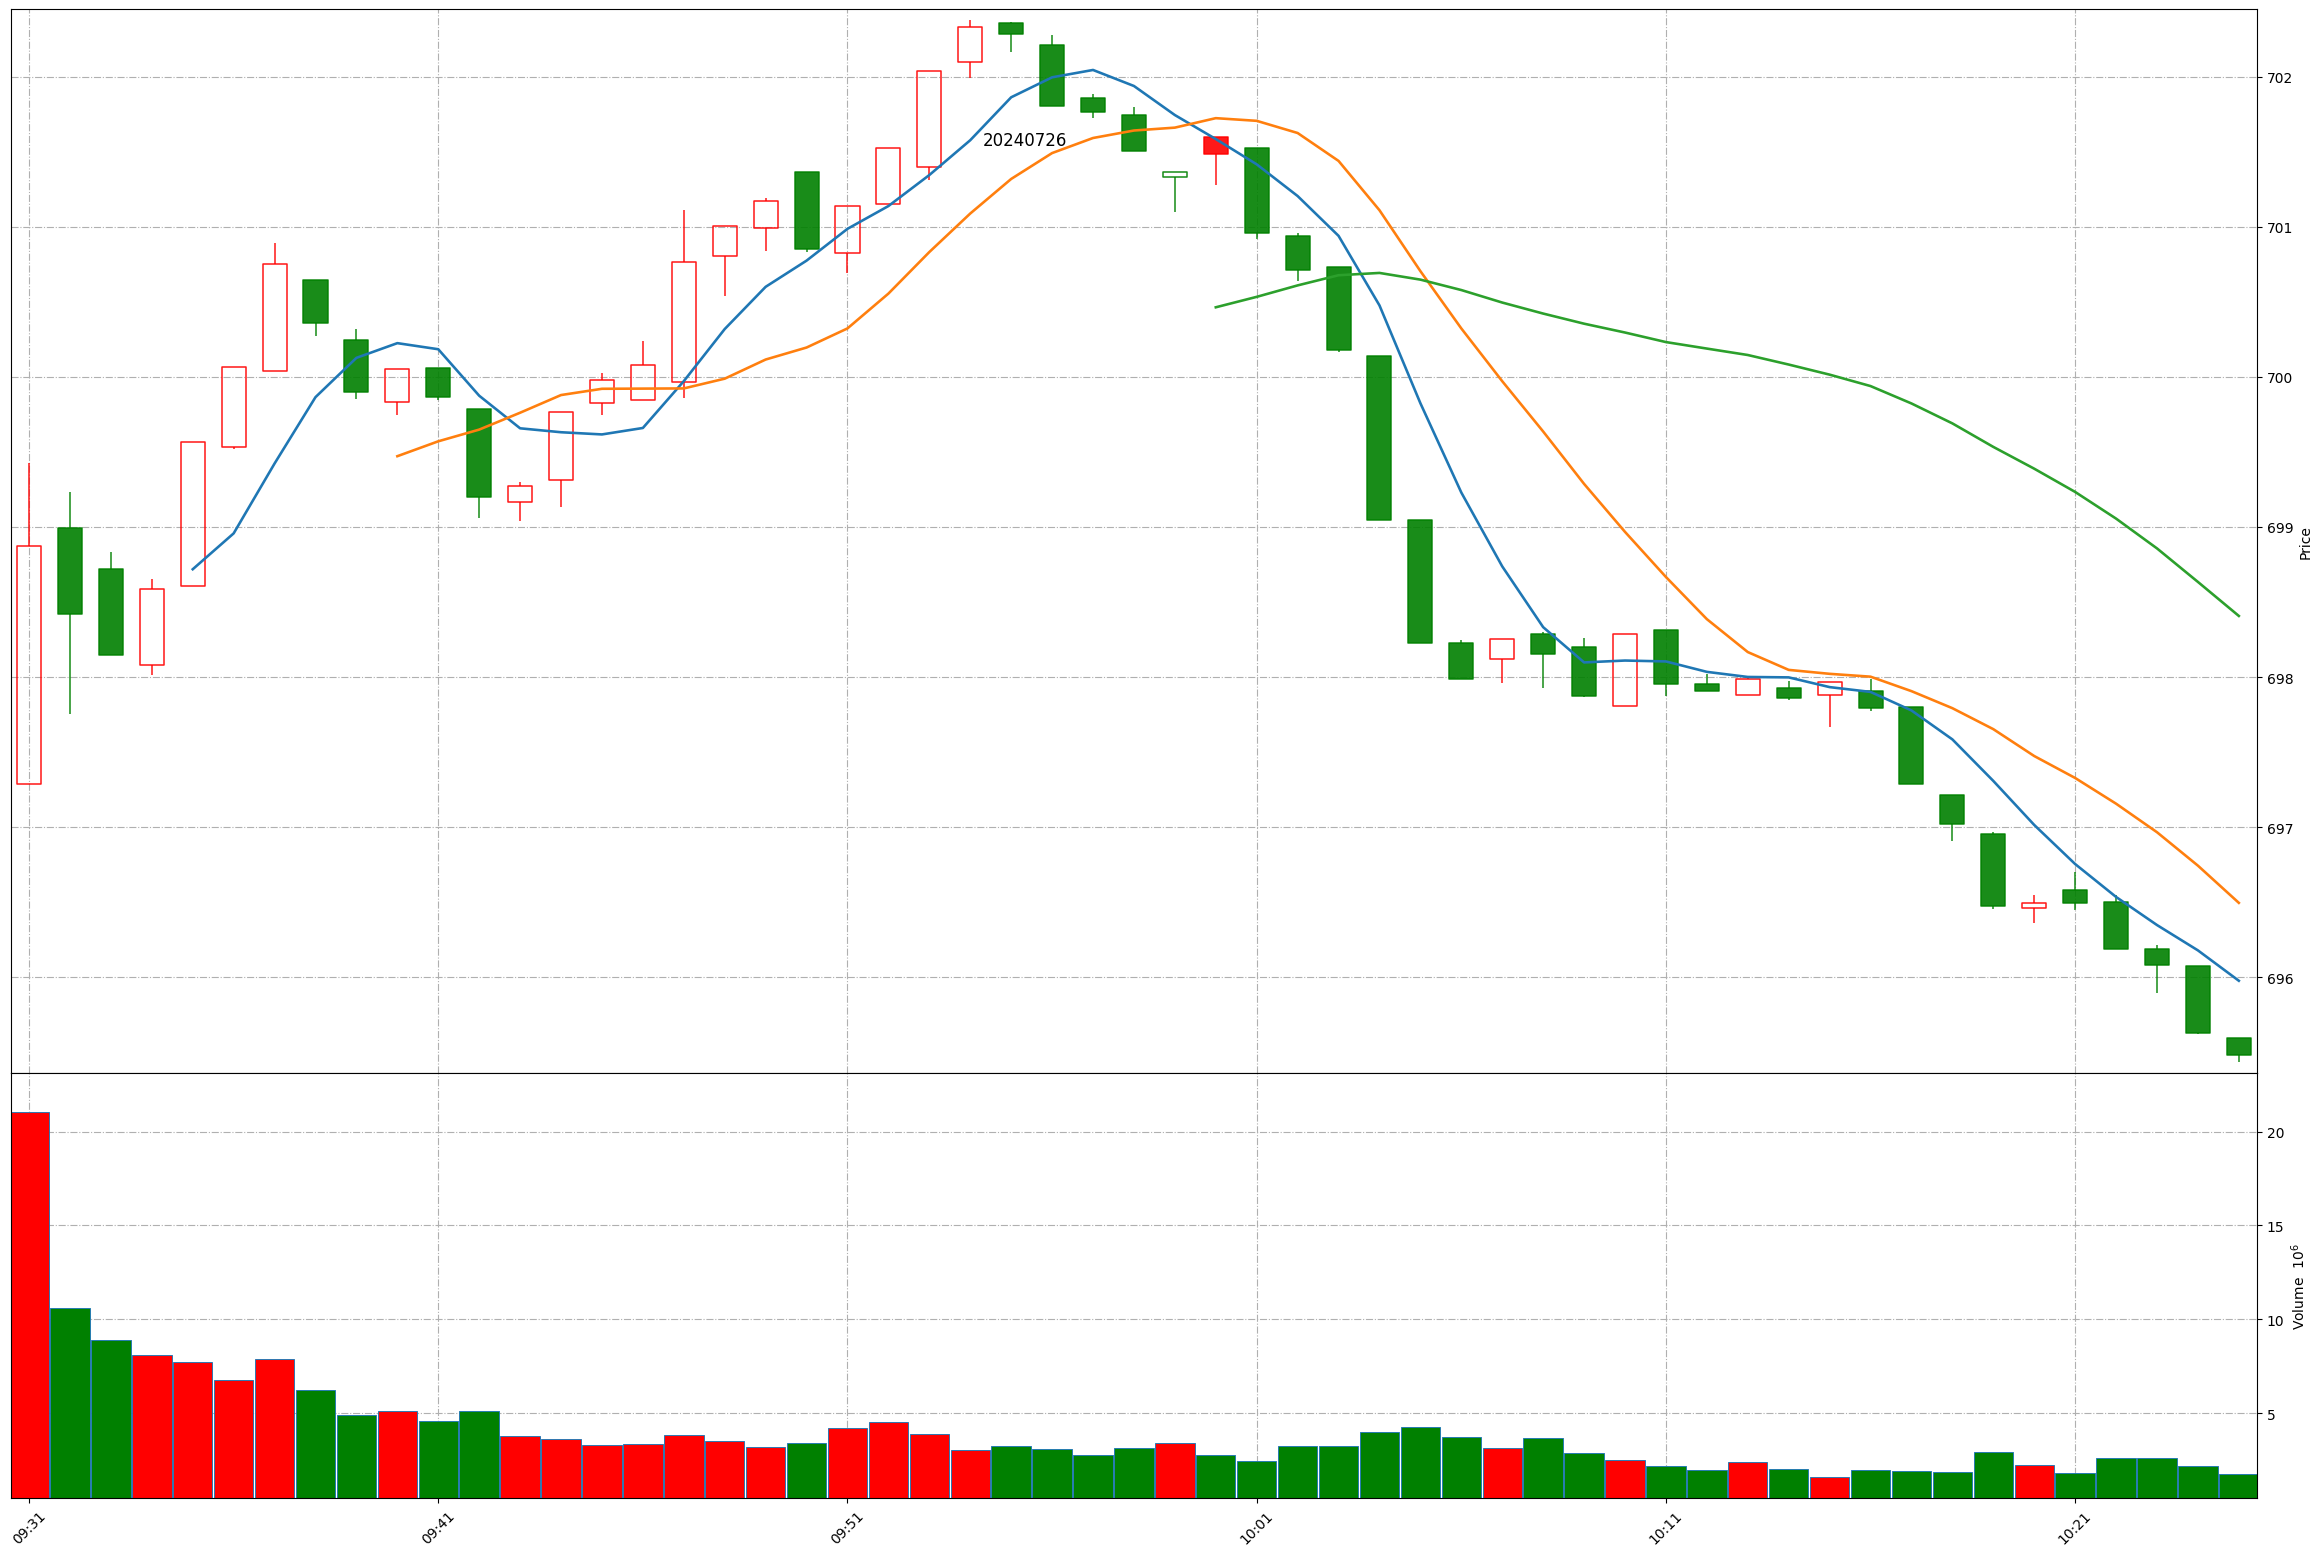
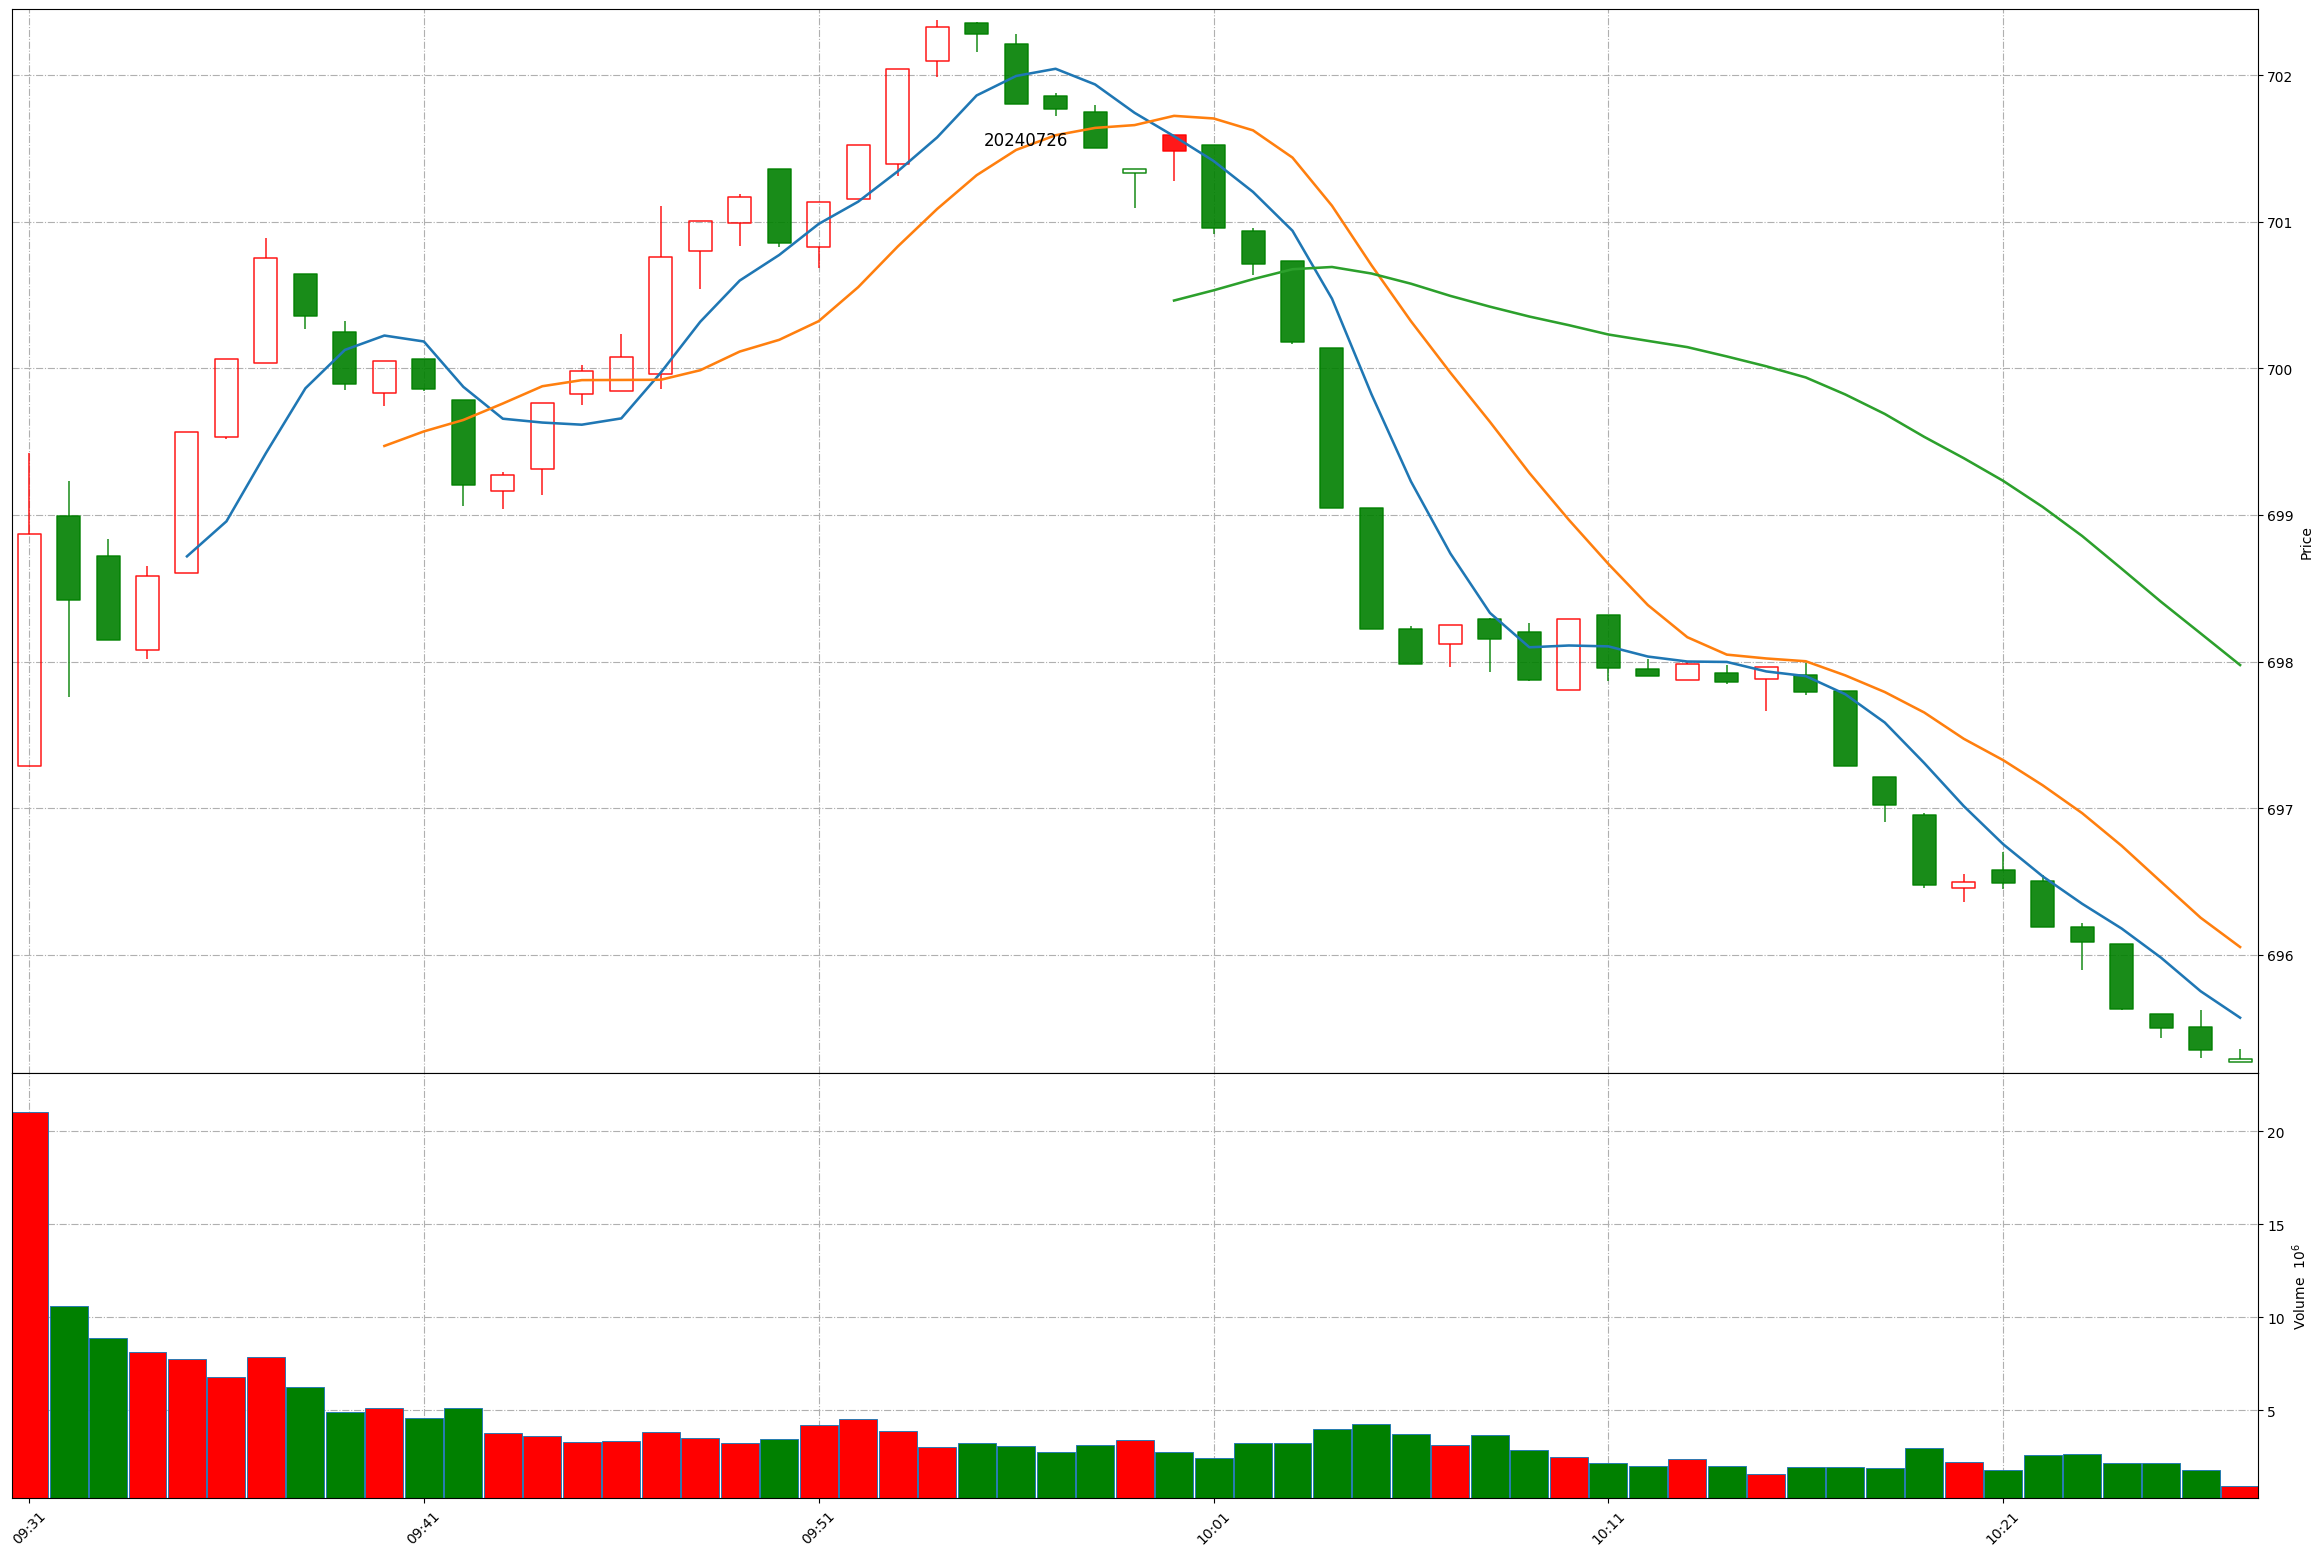
Github action update at 2024-07-26 10:26:51.

diff --git a/README.md b/README.md
@@ -1,11 +1,11 @@
 
 # Daily-A-share-market-quotes 每日 A 股指数（5min 更新）- 20240726
 
-### 上证指数 20240726 10:24
+### 上证指数 20240726 10:26
 ![](./fig/2024/7/20240726-sh000001.png)
 
-### 深证成指 20240726 10:24
+### 深证成指 20240726 10:26
 ![](./fig/2024/7/20240726-sz399001.png)
 
-### 北证50 20240726 10:24
+### 北证50 20240726 10:26
 ![](./fig/2024/7/20240726-bj899050.png)
